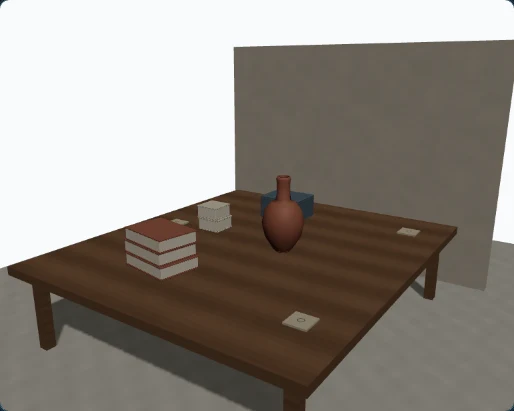
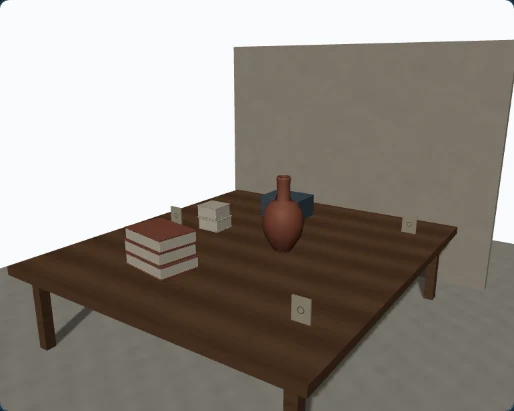
fix(still-life): correct photographic framing and contrast

diff --git a/src/scenes/stillLifeStudioGeometry.ts b/src/scenes/stillLifeStudioGeometry.ts
@@ -5,9 +5,9 @@ import type { Bounds3 } from "../types/optics";
 import type { CameraPlacement, FocusTarget } from "../types/scene";
 
 export const stillLifeStudioTable = {
-  centerMm: { x: 0, y: -40, z: 4100 },
+  centerMm: { x: 0, y: -190, z: 4100 },
   sizeMm: { width: 3000, height: 80, depth: 3400 },
-  topYmm: 0,
+  topYmm: -150,
   boundsXZMm: {
     min: { x: -1500, z: 2400 },
     max: { x: 1500, z: 5800 },
@@ -15,13 +15,13 @@ export const stillLifeStudioTable = {
 } as const;
 
 export const stillLifeStudioBackdrop = {
-  centerMm: { x: 0, y: 562.5, z: 6200 },
+  centerMm: { x: 0, y: 412.5, z: 6200 },
   sizeMm: { width: 3600, height: 2775, depth: 100 },
   nearSurfaceZmm: 6150,
 } as const;
 
 export const stillLifeStudioFloor = {
-  centerMm: { x: 0, y: -850, z: 4100 },
+  centerMm: { x: 0, y: -1000, z: 4100 },
   sizeMm: { width: 7000, height: 50, depth: 8000 },
 } as const;
 
@@ -31,17 +31,22 @@ export const stillLifeStudioFocusReferences = [
   { id: "still-life-far", label: "Far tabletop reference", x: -1120, z: 5300 },
 ] as const;
 
-export const stillLifeStudioFocusTileHalfSizeMm = 95;
-const focusTileTopYmm = 16;
+export const stillLifeStudioFocusTileDimensionsMm = {
+  width: 150,
+  height: 190,
+  depth: 16,
+} as const;
+export const stillLifeStudioFocusProtectedHalfExtentMm = 95;
 const focusSampleOffsetMm = 48;
 
 /** Fixed surface samples on three rendered tabletop reference tiles. */
 export const stillLifeStudioFocusTargets: FocusTarget[] =
   stillLifeStudioFocusReferences.map((reference) => {
+    const frontSurfaceZmm = reference.z - stillLifeStudioFocusTileDimensionsMm.depth / 2;
     const worldPosition = {
       x: reference.x,
-      y: focusTileTopYmm,
-      z: reference.z,
+      y: stillLifeStudioTable.topYmm + stillLifeStudioFocusTileDimensionsMm.height / 2,
+      z: frontSurfaceZmm,
     };
     return {
       id: reference.id,
@@ -51,8 +56,8 @@ export const stillLifeStudioFocusTargets: FocusTarget[] =
         worldPosition,
         { ...worldPosition, x: reference.x - focusSampleOffsetMm },
         { ...worldPosition, x: reference.x + focusSampleOffsetMm },
-        { ...worldPosition, z: reference.z - focusSampleOffsetMm },
-        { ...worldPosition, z: reference.z + focusSampleOffsetMm },
+        { ...worldPosition, y: worldPosition.y - focusSampleOffsetMm },
+        { ...worldPosition, y: worldPosition.y + focusSampleOffsetMm },
       ],
       weight: 1,
     };
@@ -65,18 +70,18 @@ export const stillLifeStudioDepthRegions = [
 ] as const;
 
 export const stillLifeStudioSceneBounds: Bounds3 = {
-  min: { x: -3550, y: -900, z: 100 },
-  max: { x: 3550, y: 2050, z: 8120 },
+  min: { x: -3550, y: -1050, z: 100 },
+  max: { x: 3550, y: 1900, z: 8120 },
 };
 
 export const stillLifeStudioCameraPlacement: CameraPlacement = {
-  position: { x: -2600, y: 1700, z: 300 },
-  target: { x: 0, y: 400, z: 4100 },
+  position: { x: -2600, y: 1550, z: 300 },
+  target: { x: 0, y: 250, z: 4100 },
 };
 
 export const stillLifeStudioCompositionBounds: Bounds3 = {
-  min: { x: -1500, y: 0, z: 2800 },
-  max: { x: 1500, y: 800, z: 5550 },
+  min: { x: -1500, y: -150, z: 2800 },
+  max: { x: 1500, y: 650, z: 5550 },
 };
 
 export default {
@@ -84,6 +89,7 @@ export default {
   stillLifeStudioBackdrop,
   stillLifeStudioFloor,
   stillLifeStudioFocusReferences,
+  stillLifeStudioFocusTileDimensionsMm,
   stillLifeStudioFocusTargets,
   stillLifeStudioDepthRegions,
   stillLifeStudioSceneBounds,

diff --git a/src/tests/unit/stillLifeStudioSubjectFactory.test.tsx b/src/tests/unit/stillLifeStudioSubjectFactory.test.tsx
@@ -9,6 +9,12 @@ import {
 import { createRegisteredRttSubject, disposeRegisteredRttSubject } from "../../render/sceneSubjectRegistry";
 import { toWorld } from "../../render/rttUtils";
 import { STILL_LIFE_STUDIO_PRESENTATION } from "../../scenes/presentation/stillLifeStudio";
+import {
+  stillLifeStudioFocusReferences,
+  stillLifeStudioFocusTileDimensionsMm,
+  stillLifeStudioFocusTargets,
+  stillLifeStudioTable,
+} from "../../scenes/stillLifeStudioGeometry";
 import { stillLifeStudioScene } from "../../scenes/definitions/still-life-studio";
 import { resolveStillLifeStudioPlan, getStillLifeObjectBoundsMm } from "../../scenes/stillLifeStudioVariation";
 import { createSceneVariantIdentity, resolveSceneVariationDescriptor } from "../../scenes/sceneVariation";
@@ -148,7 +154,7 @@ describe("Still-Life Studio registered subject", () => {
             max: { x: actual.max.x * 1000, y: actual.max.y * 1000, z: actual.max.z * 1000 },
           };
           const planned = getStillLifeObjectBoundsMm(placement);
-          expect(actualMm.min.y).toBeCloseTo(0, 2);
+          expect(actualMm.min.y).toBeCloseTo(stillLifeStudioTable.topYmm, 2);
           expect(actualMm.min.x).toBeGreaterThanOrEqual(planned.min.x - 10);
           expect(actualMm.max.x).toBeLessThanOrEqual(planned.max.x + 10);
           expect(actualMm.min.z).toBeGreaterThanOrEqual(planned.min.z - 10);
@@ -159,6 +165,39 @@ describe("Still-Life Studio registered subject", () => {
       } finally {
         disposeRegisteredSceneAsset(STILL_LIFE_STUDIO_ASSET_KEY, group);
       }
+    }
+  });
+
+  it("renders each focus plaque as an upright camera-facing scored surface", () => {
+    const group = createRegisteredSceneAsset(STILL_LIFE_STUDIO_ASSET_KEY, {
+      presentation: STILL_LIFE_STUDIO_PRESENTATION,
+      variationDescriptor: descriptorFor(284719),
+    });
+    group.updateMatrixWorld(true);
+    try {
+      for (const reference of stillLifeStudioFocusReferences) {
+        const tile = group.getObjectByName(`still-life-studio-focus-tile-${reference.id}`);
+        const ring = group.getObjectByName(`still-life-studio-focus-mark-${reference.id}`);
+        const probe = group.getObjectByName(`still-life-studio-focus-${reference.id}`);
+        if (!(tile instanceof THREE.Mesh) || !ring || !probe) {
+          throw new Error(`Missing rendered focus reference ${reference.id}`);
+        }
+        const target = stillLifeStudioFocusTargets.find(({ id }) => id === reference.id);
+        if (!target) throw new Error(`Missing scored focus target ${reference.id}`);
+        const bounds = new THREE.Box3().setFromObject(tile);
+        expect(bounds.min.y * 1000).toBeCloseTo(stillLifeStudioTable.topYmm, 2);
+        expect(bounds.max.y * 1000).toBeCloseTo(
+          stillLifeStudioTable.topYmm + stillLifeStudioFocusTileDimensionsMm.height,
+          2,
+        );
+        expect(bounds.min.z * 1000).toBeCloseTo(target.worldPosition.z, 2);
+        expect(probe.userData.focusProbeWorldMm).toEqual(target.worldPosition);
+
+        const frontNormal = new THREE.Vector3(0, 0, 1).transformDirection(ring.matrixWorld);
+        expect(frontNormal.z).toBeCloseTo(-1, 6);
+      }
+    } finally {
+      disposeRegisteredSceneAsset(STILL_LIFE_STUDIO_ASSET_KEY, group);
     }
   });
 

diff --git a/src/tests/unit/publicScenes.test.ts b/src/tests/unit/publicScenes.test.ts
@@ -73,7 +73,7 @@ describe("public scene catalog integrity", () => {
     expect(Object.values(scenePublication).every((value) => typeof value === "boolean")).toBe(true);
   });
 
-  it("publishes Still-Life Studio as qualified Free Practice", () => {
+  it("publishes the qualified Still-Life Studio in production and qualification mode", () => {
     const entry = publicSceneCatalog.find(({ id }) => id === "still-life-studio")!;
 
     expect(scenePublication["still-life-studio"]).toBe(true);
@@ -88,16 +88,26 @@ describe("public scene catalog integrity", () => {
     expect(entry.guidedTaskIds).toBeUndefined();
     expect(entry.guidedLesson).toBeUndefined();
     expect(entry.lesson).toBeUndefined();
-    expect(getPublicSceneEntryById("still-life-studio")).toMatchObject(entry);
-    expect(isValidSimulatorRoute({ mode: "free", sceneId: entry.id, publicEntry: entry })).toBe(true);
+    const productionPublication = resolveScenePublication("production");
+    const productionEntry = getPublicSceneEntryById(entry.id, productionPublication);
+    expect(productionPublication["still-life-studio"]).toBe(true);
+    if (productionEntry === undefined) throw new Error("Published Still-Life Studio should be visible in production");
+    expect(productionEntry).toMatchObject(entry);
+    expect(isValidSimulatorRoute({ mode: "free", sceneId: entry.id, publicEntry: productionEntry })).toBe(true);
+
+    const qualificationPublication = resolveScenePublication("still-life-studio-qualification");
+    const qualificationEntry = getPublicSceneEntryById(entry.id, qualificationPublication);
+    if (qualificationEntry === undefined) throw new Error("Still-Life Studio should remain available in qualification mode");
+    expect(qualificationPublication["still-life-studio"]).toBe(true);
+    expect(qualificationPublication["shelf-swing"]).toBe(scenePublication["shelf-swing"]);
+    expect(qualificationEntry).toMatchObject(entry);
+    expect(isValidSimulatorRoute({ mode: "free", sceneId: entry.id, publicEntry: qualificationEntry })).toBe(true);
     expect(isValidSimulatorRoute({
       mode: "guided",
       sceneId: entry.id,
       taskId: "future-task",
       publicEntry: entry,
     })).toBe(false);
-    expect(resolveScenePublication("production")["still-life-studio"]).toBe(true);
-    expect(resolveScenePublication("still-life-studio-qualification")["still-life-studio"]).toBe(true);
   });
 
   it("declares each scene in one registered group with deterministic group order", () => {

diff --git a/src/scenes/stillLifeStudioVariation.ts b/src/scenes/stillLifeStudioVariation.ts
@@ -4,7 +4,7 @@ import {
   stillLifeStudioBackdrop,
   stillLifeStudioDepthRegions,
   stillLifeStudioFocusReferences,
-  stillLifeStudioFocusTileHalfSizeMm,
+  stillLifeStudioFocusProtectedHalfExtentMm,
   stillLifeStudioSceneBounds,
   stillLifeStudioTable,
 } from "./stillLifeStudioGeometry";
@@ -122,10 +122,10 @@ const studioTableSupport: SupportSurfaceMm = {
 };
 
 const focusProtectedRegions = stillLifeStudioFocusReferences.map((reference) => ({
-  minX: reference.x - stillLifeStudioFocusTileHalfSizeMm - 26,
-  maxX: reference.x + stillLifeStudioFocusTileHalfSizeMm + 26,
-  minZ: reference.z - stillLifeStudioFocusTileHalfSizeMm - 26,
-  maxZ: reference.z + stillLifeStudioFocusTileHalfSizeMm + 26,
+  minX: reference.x - stillLifeStudioFocusProtectedHalfExtentMm - 26,
+  maxX: reference.x + stillLifeStudioFocusProtectedHalfExtentMm + 26,
+  minZ: reference.z - stillLifeStudioFocusProtectedHalfExtentMm - 26,
+  maxZ: reference.z + stillLifeStudioFocusProtectedHalfExtentMm + 26,
 }));
 
 const roundTo10 = (value: number): number => Math.round(value / 10) * 10;
@@ -323,7 +323,7 @@ export const createStillLifeStudioFallbackPlan = (): StillLifeStudioPlan =>
         family: "vessel",
         variant: "round-shoulder",
         dimensionsMm: Object.freeze({ width: 420, height: 680, depth: 420 }),
-        positionMm: Object.freeze({ x: -320, y: 340, z: 4100 }),
+        positionMm: Object.freeze({ x: -320, y: 190, z: 4100 }),
         rotationYDeg: 0,
         supportId: "studio-table",
         palette: "clay",
@@ -334,7 +334,7 @@ export const createStillLifeStudioFallbackPlan = (): StillLifeStudioPlan =>
         family: "bowl",
         variant: "wide-low",
         dimensionsMm: Object.freeze({ width: 500, height: 220, depth: 500 }),
-        positionMm: Object.freeze({ x: 360, y: 110, z: 3200 }),
+        positionMm: Object.freeze({ x: 360, y: -40, z: 3200 }),
         rotationYDeg: 0,
         supportId: "studio-table",
         palette: "sage",
@@ -345,7 +345,7 @@ export const createStillLifeStudioFallbackPlan = (): StillLifeStudioPlan =>
         family: "books",
         variant: "two-book-stack",
         dimensionsMm: Object.freeze({ width: 510, height: 260, depth: 380 }),
-        positionMm: Object.freeze({ x: 260, y: 130, z: 5100 }),
+        positionMm: Object.freeze({ x: 260, y: -20, z: 5100 }),
         rotationYDeg: 0,
         supportId: "studio-table",
         palette: "ochre",

diff --git a/src/render/StillLifeStudioSubjectFactory.tsx b/src/render/StillLifeStudioSubjectFactory.tsx
@@ -291,14 +291,17 @@ const addFocusReferences = (
   markMaterial: THREE.Material,
 ): void => {
   presentation.geometry.stillLifeStudioFocusReferences.forEach((reference) => {
+    const tileDimensions = presentation.geometry.stillLifeStudioFocusTileDimensionsMm;
+    const tileCenterYmm = presentation.geometry.stillLifeStudioTable.topYmm + tileDimensions.height / 2;
+    const tileFrontZmm = reference.z - tileDimensions.depth / 2;
     const focusGroup = new THREE.Group();
     focusGroup.name = `still-life-studio-focus-reference-${reference.id}`;
     root.add(focusGroup);
     addBox(
       focusGroup,
       `still-life-studio-focus-tile-${reference.id}`,
-      { width: 190, height: 16, depth: 190 },
-      { x: reference.x, y: 8, z: reference.z },
+      tileDimensions,
+      { x: reference.x, y: tileCenterYmm, z: reference.z },
       tileMaterial,
       { cast: false },
     );
@@ -307,8 +310,8 @@ const addFocusReferences = (
       markMaterial,
     );
     ring.name = `still-life-studio-focus-mark-${reference.id}`;
-    ring.rotation.x = -Math.PI / 2;
-    ring.position.set(toWorld(reference.x), toWorld(16.15), toWorld(reference.z));
+    ring.rotation.y = Math.PI;
+    ring.position.set(toWorld(reference.x), toWorld(tileCenterYmm), toWorld(tileFrontZmm - 0.15));
     ring.castShadow = false;
     ring.receiveShadow = false;
     focusGroup.add(ring);
@@ -390,7 +393,8 @@ export const createStillLifeStudioGroup = (
     tableMaterial,
   );
 
-  const legGeometry = new THREE.BoxGeometry(toWorld(100), toWorld(745), toWorld(100));
+  const legHeightMm = 745;
+  const legGeometry = new THREE.BoxGeometry(toWorld(100), toWorld(legHeightMm), toWorld(100));
   [
     { x: -1320, z: 2580 },
     { x: 1320, z: 2580 },
@@ -399,7 +403,10 @@ export const createStillLifeStudioGroup = (
   ].forEach((position, index) => {
     const leg = new THREE.Mesh(legGeometry, tableMaterial);
     leg.name = `still-life-studio-table-leg-${index + 1}`;
-    leg.position.set(toWorld(position.x), toWorld(-452.5), toWorld(position.z));
+    const legCenterYmm = geometry.stillLifeStudioTable.topYmm
+      - geometry.stillLifeStudioTable.sizeMm.height
+      - legHeightMm / 2;
+    leg.position.set(toWorld(position.x), toWorld(legCenterYmm), toWorld(position.z));
     leg.castShadow = true;
     leg.receiveShadow = true;
     root.add(leg);
